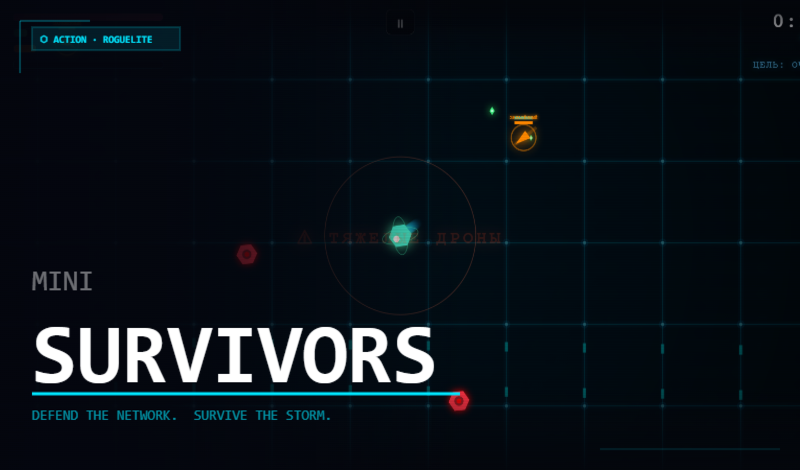
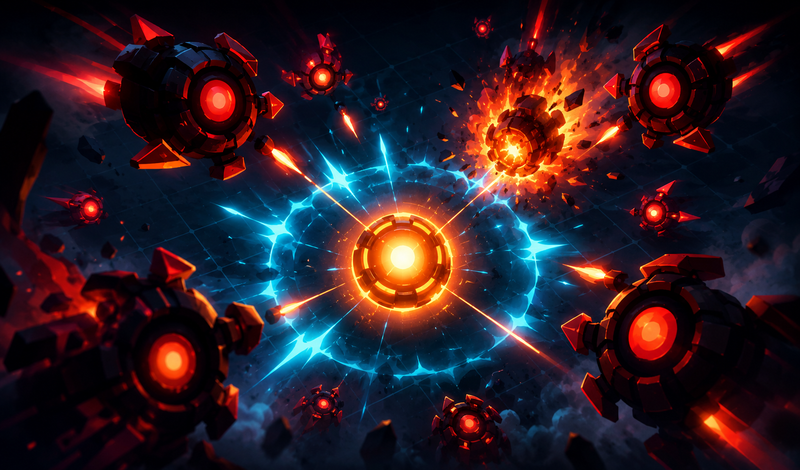
Fixed home page mobile design

diff --git a/index.html b/index.html
@@ -4311,23 +4311,24 @@
 
                 /* ── Start: compact single-column for ≤420px landscape ── */
                 .game-title {
-                    font-size: 14px !important;
-                    margin-bottom: 10px !important;
+                    font-size: 13px !important;
+                    margin-bottom: 7px !important;
                 }
                 .game-title span {
                     font-size: 42px !important;
                 }
                 .menu-alert {
-                    font-size: 8px !important;
-                    padding: 4px 8px !important;
-                    margin-bottom: 10px !important;
+                    font-size: 7px !important;
+                    padding: 3px 8px !important;
+                    margin-bottom: 8px !important;
                 }
                 #startScreen .lore {
-                    font-size: 8.5px !important;
-                    line-height: 1.6 !important;
-                    margin-top: 10px !important;
-                    font-size: 8.5px !important;
+                    font-size: 8px !important;
+                    line-height: 1.5 !important;
+                    margin-top: 7px !important;
+                    margin-bottom: 0 !important;
                     opacity: 0.65 !important;
+                    display: block !important;
                 }
                 #startActions {
                     gap: 5px !important;
@@ -4342,17 +4343,17 @@
                     height: 52px !important;
                 }
                 #startScreen .btn-www {
-                    font-size: 10px !important;
+                    font-size: 9px !important;
                     padding: 0 12px !important;
                 }
                 #startScreen .btn-ghost {
-                    font-size: 10px !important;
+                    font-size: 9px !important;
                     min-height: 32px !important;
                     padding: 0 5px !important;
                 }
                 .daily-badge {
-                    font-size: 10px !important;
-                    padding: 9px 14px !important;
+                    font-size: 9px !important;
+                    padding: 8px 14px !important;
                 }
                 /* Death: tighter stat boxes ── */
                 .death-title {
